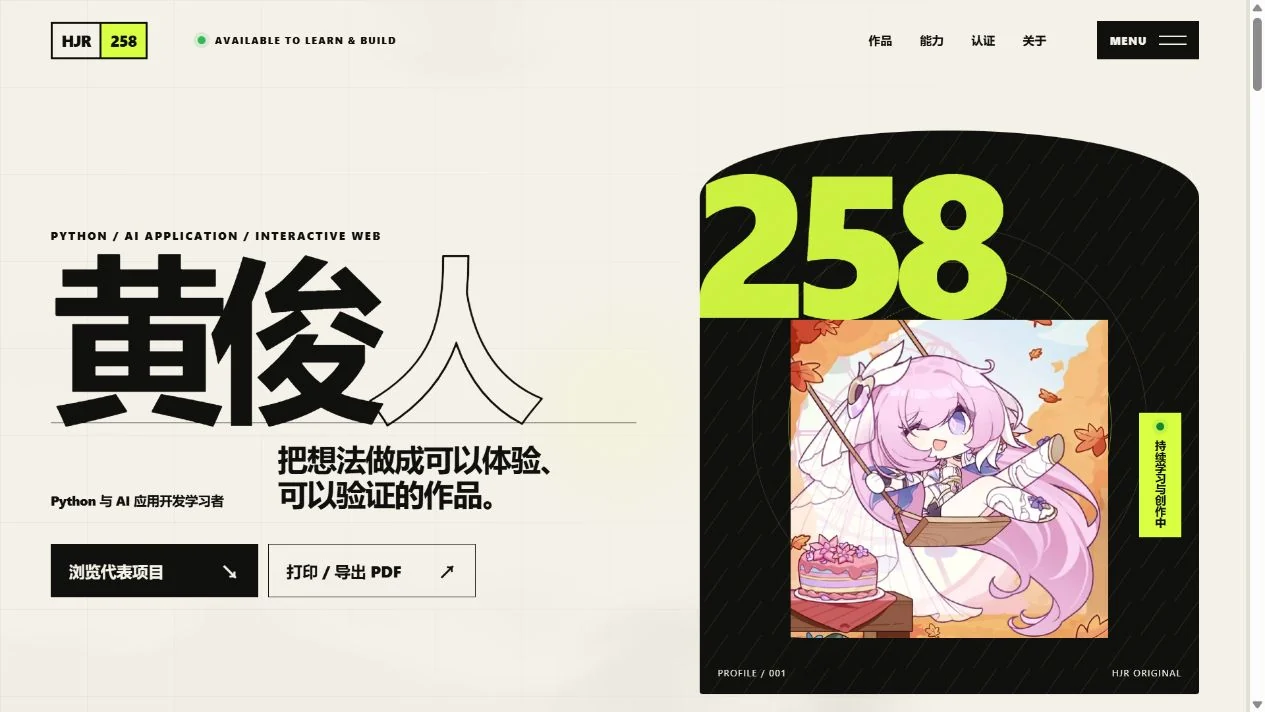
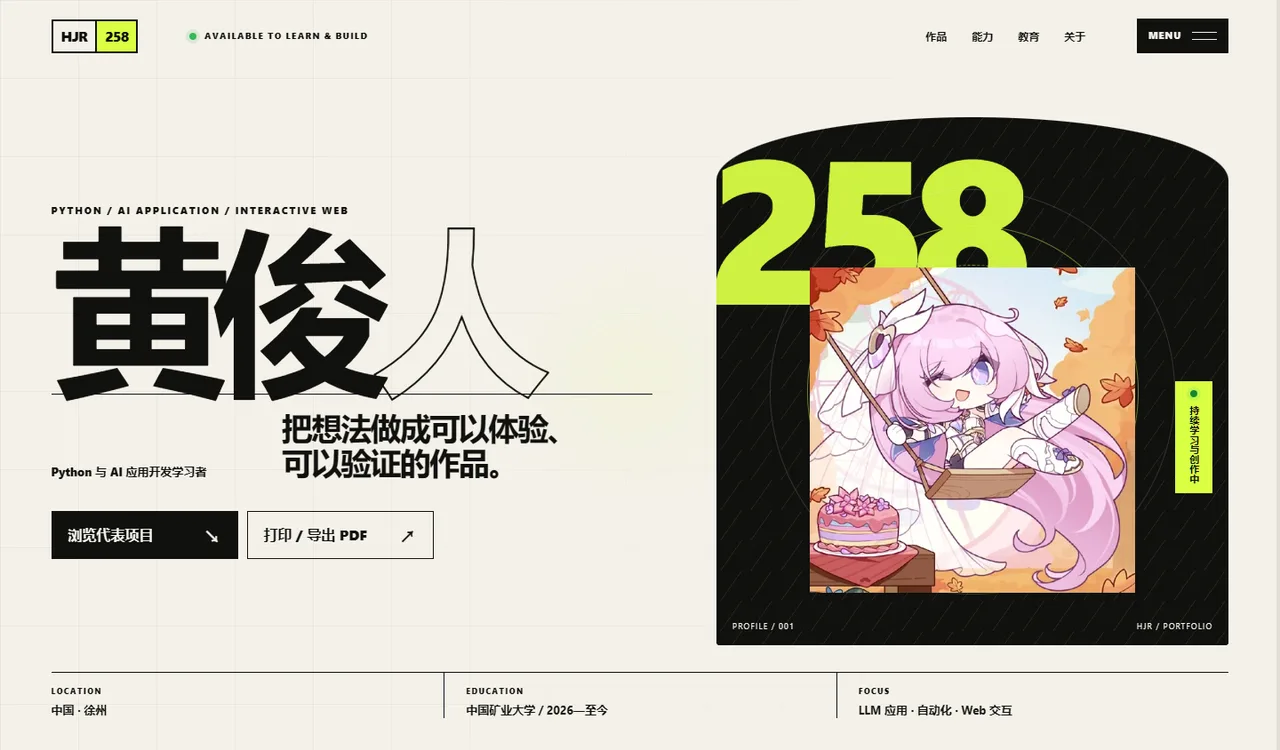
Remove certifications section and refine portfolio details

diff --git a/index.html b/index.html
@@ -7,11 +7,11 @@
   <meta name="theme-color" content="#d9ff43">
   <meta property="og:type" content="profile">
   <meta property="og:title" content="黄俊人｜个人作品集">
-  <meta property="og:description" content="黄俊人的项目、能力、教育背景与专业认证。">
-  <meta property="og:image" content="screenshots/tank-battle.webp">
+  <meta property="og:description" content="黄俊人的代表项目、技术能力与学习经历。">
+  <meta property="og:image" content="https://hjr258.github.io/aipersonalcv/screenshots/tank-battle.webp">
   <title>黄俊人｜个人作品集</title>
   <link rel="icon" href="favicon.svg" type="image/svg+xml">
-  <link rel="stylesheet" href="styles.css?v=20260910">
+  <link rel="stylesheet" href="styles.css?v=20261023">
   <noscript><style>.boot{display:none!important}</style></noscript>
   <script type="application/ld+json">
   {"@context":"https://schema.org","@type":"Person","name":"黄俊人","email":"mailto:3432300453@qq.com","sameAs":["https://github.com/HJR258"],"alumniOf":{"@type":"CollegeOrUniversity","name":"中国矿业大学"},"knowsAbout":["Python","LLM 应用","自动化工具","HTML5 Canvas","Web 开发"]}
@@ -29,7 +29,7 @@
   <div class="cursor" aria-hidden="true"><span></span></div>
   <div class="scroll-progress" aria-hidden="true"><b id="scrollProgress"></b></div>
   <canvas class="fluid-canvas" id="fluidCanvas" aria-hidden="true"></canvas>
-  <div class="image-trail" id="imageTrail" aria-hidden="true" data-trail-images="screenshots/tank-battle.webp|screenshots/resume-site.webp?v=20260831|screenshots/ai-chat.webp|assets/avatar.webp|assets/cert-damo.webp|assets/cert-ai-trainer-advanced.webp|assets/cert-alicloud-clouder.webp"></div>
+  <div class="image-trail" id="imageTrail" aria-hidden="true" data-trail-images="screenshots/tank-battle.webp|screenshots/resume-site.webp?v=20261023|screenshots/ai-chat.webp|assets/avatar.webp"></div>
 
   <header class="site-header" id="siteHeader">
     <a class="brand" href="#top" aria-label="返回首页" data-cursor="link">
@@ -37,7 +37,7 @@
     </a>
     <div class="header-status"><i></i><span>AVAILABLE TO LEARN &amp; BUILD</span></div>
     <nav class="desktop-nav" aria-label="主要导航">
-      <a href="#work">作品</a><a href="#skills">能力</a><a href="#awards">认证</a><a href="#about">关于</a>
+      <a href="#work">作品</a><a href="#skills">能力</a><a href="#education">教育</a><a href="#about">关于</a>
     </nav>
     <button class="menu-button" id="menuButton" type="button" aria-expanded="false" aria-controls="menuPanel" data-cursor="open">
       <span>MENU</span><i></i><i></i><b class="sr-only">打开菜单</b>
@@ -51,8 +51,7 @@
       <a href="#work"><small>01</small>代表项目</a>
       <a href="#skills"><small>02</small>技术能力</a>
       <a href="#education"><small>03</small>教育背景</a>
-      <a href="#awards"><small>04</small>学习与认证</a>
-      <a href="#about"><small>05</small>关于我</a>
+      <a href="#about"><small>04</small>关于我</a>
     </nav>
     <div class="menu-panel__footer"><a href="mailto:3432300453@qq.com">EMAIL ↗</a><a href="https://github.com/HJR258" target="_blank" rel="noopener noreferrer">GITHUB ↗</a><button class="fluid-toggle" id="fluidFxToggle" type="button" aria-pressed="true">FLUID FX / AUTO</button></div>
   </div>
@@ -79,10 +78,10 @@
         <div class="hero-visual__number" aria-hidden="true">258</div>
         <div class="hero-visual__halo" aria-hidden="true"><i></i><i></i><i></i></div>
         <div class="portrait-frame">
-          <img src="assets/avatar.webp" alt="黄俊人个人头像" width="480" height="480" fetchpriority="high" decoding="async">
+          <img src="assets/avatar.webp" alt="个人网站使用的插画头像" width="480" height="480" fetchpriority="high" decoding="async">
         </div>
         <div class="portrait-tag"><i></i><span>持续学习与创作中</span></div>
-        <div class="visual-caption"><span>PROFILE / 001</span><span>HJR ORIGINAL</span></div>
+        <div class="visual-caption"><span>PROFILE / 001</span><span>HJR / PORTFOLIO</span></div>
       </div>
 
       <div class="hero-meta reveal delay-3">
@@ -105,7 +104,7 @@
       </div>
       <div class="manifesto-stats">
         <div><strong>03</strong><span>代表项目</span></div>
-        <div><strong>03</strong><span>专业认证</span></div>
+        <div><strong>04</strong><span>能力方向</span></div>
         <div><strong>2026</strong><span>学习新起点</span></div>
       </div>
     </section>
@@ -124,7 +123,7 @@
           </button>
         </article>
         <article class="media-index-row reveal-card" data-project="resume-site">
-          <button class="media-index-trigger project-index-trigger" type="button" data-preview-src="screenshots/resume-site.webp?v=20260831" data-preview-title="个人简历网站" data-preview-meta="RESPONSIVE WEB · 个人项目｜AI辅助开发" aria-label="查看个人简历网站项目图片与详情" data-cursor="view">
+          <button class="media-index-trigger project-index-trigger" type="button" data-preview-src="screenshots/resume-site.webp?v=20261023" data-preview-title="个人简历网站" data-preview-meta="RESPONSIVE WEB · 个人项目｜AI辅助开发" aria-label="查看个人简历网站项目图片与详情" data-cursor="view">
             <span class="media-index-number">02</span><span class="media-index-name"><small>RESPONSIVE WEB</small><strong>个人简历网站</strong></span><span class="media-index-meta">离线浏览 · 无障碍交互 · 响应式设计 · A4 打印</span><span class="media-index-arrow" aria-hidden="true">↗</span>
           </button>
         </article>
@@ -160,33 +159,8 @@
       </article>
     </section>
 
-    <section class="awards" id="awards" aria-labelledby="awardsTitle" data-fluid-theme="light">
-      <header class="section-head">
-        <div class="section-index"><span>RECOGNITION</span><b>04</b></div>
-        <div><p>持续实践的见证</p><h2 id="awardsTitle">学习与认证</h2></div>
-        <p class="section-intro">悬停名称预览证书，点击后查看保持原始比例的完整大图。</p>
-      </header>
-      <div class="media-index-list certificate-index-list" aria-label="学习与认证索引">
-        <article class="media-index-row reveal-card">
-          <button class="media-index-trigger certificate-index-trigger" type="button" data-certificate="assets/cert-damo.webp" data-title="人工智能训练师证书（初级）" data-preview-src="assets/cert-damo.webp" data-preview-title="人工智能训练师证书（初级）" data-preview-meta="达摩院-机器智能技术事业部 · 初级" aria-label="预览并放大查看人工智能训练师证书（初级）" data-cursor="open">
-            <span class="media-index-number">01</span><span class="media-index-name"><small>初级培训认证</small><strong>人工智能训练师证书（初级）</strong></span><span class="media-index-meta">达摩院-机器智能技术事业部</span><span class="media-index-arrow" aria-hidden="true">＋</span>
-          </button>
-        </article>
-        <article class="media-index-row reveal-card">
-          <button class="media-index-trigger certificate-index-trigger" type="button" data-certificate="assets/cert-ai-trainer-advanced.webp" data-title="人工智能训练师证书（高级）" data-preview-src="assets/cert-ai-trainer-advanced.webp" data-preview-title="人工智能训练师证书（高级）" data-preview-meta="达摩院-机器智能技术事业部 · 高级" aria-label="预览并放大查看人工智能训练师证书（高级）" data-cursor="open">
-            <span class="media-index-number">02</span><span class="media-index-name"><small>高级培训认证</small><strong>人工智能训练师证书（高级）</strong></span><span class="media-index-meta">达摩院-机器智能技术事业部</span><span class="media-index-arrow" aria-hidden="true">＋</span>
-          </button>
-        </article>
-        <article class="media-index-row reveal-card">
-          <button class="media-index-trigger certificate-index-trigger" type="button" data-certificate="assets/cert-alicloud-clouder.webp" data-title="阿里云Apsara Clouder专项技能认证" data-preview-src="assets/cert-alicloud-clouder.webp" data-preview-title="阿里云Apsara Clouder专项技能认证" data-preview-meta="阿里云 · 大模型clouder认证：基于百炼平台构建智能体应用" aria-label="预览并放大查看阿里云Apsara Clouder专项技能认证" data-cursor="open">
-            <span class="media-index-number">03</span><span class="media-index-name"><small>专项技能认证</small><strong>阿里云Apsara Clouder专项技能认证</strong></span><span class="media-index-meta">阿里云｜大模型clouder认证：基于百炼平台构建智能体应用</span><span class="media-index-arrow" aria-hidden="true">＋</span>
-          </button>
-        </article>
-      </div>
-    </section>
-
     <section class="about section-dark" id="about" aria-labelledby="aboutTitle" data-fluid-theme="dark">
-      <div class="section-index"><span>ABOUT</span><b>05</b></div>
+      <div class="section-index"><span>ABOUT</span><b>04</b></div>
       <div class="about-lead"><p>保持好奇，也重视落地</p><h2 id="aboutTitle">学习不是等发车。<br><em>我已经在路上。</em></h2></div>
       <div class="about-body">
         <div class="about-copy"><p>我对 AI 应用开发和编程实践充满兴趣，持续学习 Python、LLM 应用与 Web 技术。我习惯从生活和学习中的具体问题出发，用小步迭代的方式完成可运行、可验证的作品。</p><p>我重视代码的可读性与可维护性，乐于研读官方文档和优秀开源项目，也希望在真实项目与团队协作中继续打磨工程能力。</p></div>
@@ -199,7 +173,7 @@
     <div class="footer-top"><span>READY FOR THE NEXT BUILD?</span><b>保持联系</b></div>
     <div class="footer-name">黄俊人<i>↗</i></div>
     <div class="footer-links"><a href="mailto:3432300453@qq.com">3432300453@qq.com</a><a href="https://github.com/HJR258" target="_blank" rel="noopener noreferrer">github.com/HJR258 ↗</a><button type="button" data-print>打印 / 导出 PDF</button></div>
-    <div class="footer-bottom"><span>PYTHON 与 AI 应用开发学习者</span><span>© 2026 黄俊人 · ORIGINAL PORTFOLIO</span><a href="#top">BACK TO TOP ↑</a></div>
+    <div class="footer-bottom"><span>PYTHON 与 AI 应用开发学习者</span><span>© 2026 黄俊人 · PERSONAL PORTFOLIO</span><a href="#top">BACK TO TOP ↑</a></div>
   </footer>
 
   <div class="hover-media-preview" id="hoverMediaPreview" aria-hidden="true">
@@ -215,16 +189,7 @@
     </section>
   </div>
 
-  <div class="modal-shell certificate-modal-shell" id="certificateModal" hidden>
-    <div class="modal-backdrop" data-close></div>
-    <section class="certificate-modal" role="dialog" aria-modal="true" aria-labelledby="certificateModalTitle">
-      <button class="modal-close" type="button" data-close aria-label="关闭证书">CLOSE ×</button>
-      <img id="certificateModalImage" alt="证书大图" width="1400" height="1000" loading="lazy" decoding="async">
-      <p id="certificateModalTitle">证书</p>
-    </section>
-  </div>
-
   <noscript><div class="noscript">JavaScript 已关闭：简历正文和图片仍可阅读，项目弹窗、菜单动画和打印按钮需要启用 JavaScript。</div></noscript>
-  <script src="main.js?v=20260910"></script>
+  <script src="main.js?v=20261023"></script>
 </body>
 </html>

diff --git a/styles.css b/styles.css
@@ -157,7 +157,7 @@ h1, h2, h3, p { margin-top: 0; }
 .manifesto-stats strong { color: var(--lime); font-size: clamp(44px, 6vw, 92px); line-height: 1; letter-spacing: -.08em; }
 .manifesto-stats span { font-size: 12px; font-weight: 800; }
 
-.work, .awards { padding: clamp(82px, 9vw, 145px) var(--pad); background: var(--paper); }
+.work { padding: clamp(82px, 9vw, 145px) var(--pad); background: var(--paper); }
 .section-head { display: grid; grid-template-columns: 130px minmax(300px, .8fr) minmax(280px, .6fr); gap: 4vw; align-items: start; margin-bottom: clamp(54px, 7vw, 100px); }
 .section-head h2 { margin: 8px 0 0; font-size: clamp(58px, 8vw, 132px); line-height: .78; letter-spacing: -.075em; }
 .section-intro { align-self: end; max-width: 420px; margin: 0; font-size: clamp(16px, 1.4vw, 21px); }
@@ -174,9 +174,6 @@ h1, h2, h3, p { margin-top: 0; }
 .media-index-meta { max-width: 330px; font-size: 12px; font-weight: 750; line-height: 1.65; }
 .media-index-arrow { justify-self: end; font-size: clamp(28px, 3.2vw, 48px); font-weight: 400; transition: transform .4s var(--ease); }
 .media-index-trigger:hover .media-index-arrow, .media-index-trigger:focus-visible .media-index-arrow { transform: rotate(45deg); }
-.certificate-index-list .media-index-trigger::before { background: var(--ink); }
-.certificate-index-list .media-index-trigger:hover, .certificate-index-list .media-index-trigger:focus-visible { color: var(--paper); }
-.certificate-index-list .media-index-trigger:hover .media-index-arrow, .certificate-index-list .media-index-trigger:focus-visible .media-index-arrow { color: var(--lime); }
 
 .hover-media-preview { --preview-x: -500px; --preview-y: -500px; position: fixed; z-index: 1000; left: 0; top: 0; width: min(380px, calc(100vw - 32px)); pointer-events: none; opacity: 0; transform: translate3d(var(--preview-x), var(--preview-y), 0); transition: opacity .16s ease; will-change: transform, opacity; }
 .hover-media-preview.visible { opacity: 1; }
@@ -239,17 +236,6 @@ h1, h2, h3, p { margin-top: 0; }
 .education-card p { margin: 0; font-weight: 750; }
 .education-code { position: absolute; right: 15px; top: 14px; font-size: 9px; font-weight: 900; letter-spacing: .12em; }
 
-.certificate-grid { display: grid; gap: 18px; }
-.certificate-card { display: grid; grid-template-columns: minmax(270px, .65fr) minmax(0, 1.35fr); min-height: 410px; border: 1px solid var(--ink); }
-.certificate-copy { display: flex; flex-direction: column; padding: clamp(26px, 3vw, 48px); color: var(--paper); background: var(--ink); }
-.certificate-copy > span { font-size: 9px; font-weight: 900; letter-spacing: .15em; }
-.certificate-copy h3 { margin: auto 0 22px; font-size: clamp(30px, 3.4vw, 56px); line-height: .96; letter-spacing: -.055em; }
-.certificate-copy p { margin: 0; color: #c5c8c0; font-size: 13px; }
-.certificate-button { position: relative; display: grid; place-items: center; min-width: 0; padding: clamp(22px, 3vw, 46px); overflow: hidden; background: #e2e2db; border: 0; cursor: pointer; }
-.certificate-button img { width: 100%; height: auto; max-height: 440px; object-fit: contain; object-position: center; filter: drop-shadow(0 16px 24px rgba(0,0,0,.16)); transition: transform .55s var(--ease); }
-.certificate-button:hover img { transform: scale(1.018); }
-.certificate-button span { position: absolute; right: 14px; bottom: 12px; padding: 7px 9px; color: var(--ink); background: var(--lime); border: 1px solid var(--ink); font-size: 9px; font-weight: 950; letter-spacing: .1em; }
-
 .about { display: grid; grid-template-columns: 130px 1fr; gap: 4vw; padding: clamp(82px, 9vw, 145px) var(--pad); }
 .about-lead h2 { margin: 20px 0 0; font-size: clamp(48px, 7.2vw, 118px); line-height: .9; letter-spacing: -.075em; }
 .about-body { grid-column: 2; display: grid; grid-template-columns: 1.15fr .85fr; gap: 8vw; margin-top: 90px; }
@@ -295,17 +281,12 @@ h1, h2, h3, p { margin-top: 0; }
 .modal-tech span { padding: 8px 10px; color: var(--paper); background: var(--ink); font-size: 10px; font-weight: 850; }
 .modal-actions { display: flex; gap: 10px; margin-top: 28px; }
 .modal-actions a { padding: 13px 18px; color: var(--ink); background: var(--lime); border: 2px solid var(--ink); font-weight: 900; }
-.certificate-modal-shell { display: grid; place-items: center; padding: 24px; }
-.certificate-modal-shell[hidden] { display: none; }
-.certificate-modal { position: relative; display: grid; width: min(1500px, 96vw); max-height: 94vh; place-items: center; padding: 56px 20px 18px; color: var(--paper); background: var(--ink); overflow: auto; }
-.certificate-modal .modal-close { position: absolute; right: 12px; left: auto; top: 0; margin: 12px 0 0; }
-.certificate-modal img { width: 100%; height: auto; max-width: 1400px; max-height: calc(94vh - 105px); object-fit: contain; object-position: center; }
-.certificate-modal p { margin: 12px 0 0; font-size: 12px; font-weight: 850; }
 .noscript { position: fixed; z-index: 9999; left: 16px; right: 16px; bottom: 16px; padding: 14px; color: var(--ink); background: var(--lime); border: 2px solid var(--ink); }
 
 @media (max-width: 1100px) {
   .desktop-nav, .header-status { display: none; }
   .site-header { grid-template-columns: 1fr auto; }
+  .brand { justify-self: start; }
   .hero { grid-template-columns: 1fr .85fr; }
   .hero-name { font-size: clamp(90px, 15vw, 160px); }
   .hero-statement { grid-template-columns: 1fr; gap: 14px; }
@@ -386,11 +367,6 @@ h1, h2, h3, p { margin-top: 0; }
   .education-card { grid-column: 1 / -1; grid-template-columns: 86px 1fr; gap: 18px; min-height: 210px; margin-left: 10px; padding: 24px 18px; box-shadow: 8px 8px 0 var(--ink); }
   .education-card img { width: 80px; }
   .education-card h3 { font-size: 30px; }
-  .certificate-card { grid-template-columns: 1fr; }
-  .certificate-copy { min-height: 235px; }
-  .certificate-copy h3 { margin-top: auto; font-size: 36px; }
-  .certificate-button { min-height: 250px; padding: 18px; }
-  .certificate-button img { max-height: 310px; }
   .about-body { grid-column: 1 / -1; grid-template-columns: 1fr; gap: 45px; margin-top: 58px; }
   .about-copy { font-size: 17px; }
   .footer { padding-top: 54px; }
@@ -403,15 +379,12 @@ h1, h2, h3, p { margin-top: 0; }
   .modal-media img { max-height: 54vh; }
   .modal-content dl, .modal-content > ul { grid-template-columns: 1fr; }
   .modal-content h2 { font-size: 47px; }
-  .certificate-modal-shell { padding: 7px; }
-  .certificate-modal { width: 100%; max-height: 98vh; }
-  .certificate-modal img { max-height: calc(98vh - 105px); }
 }
 
 @media (hover: none), (pointer: coarse) {
   .cursor { display: none; }
   .hover-media-preview, .image-trail { display: none; }
-  .project:hover .project-media img, .certificate-button:hover img { transform: none; }
+  .media-index-trigger:hover .media-index-name strong { transform: none; }
 }
 
 @media (prefers-reduced-motion: reduce) {
@@ -424,25 +397,22 @@ h1, h2, h3, p { margin-top: 0; }
   :root { --paper: #fff; --ink: #000; }
   @page { size: A4; margin: 13mm; }
   body { color: #000; background: #fff; font-size: 10pt; }
-  .boot, .cursor, .scroll-progress, .site-header, .ticker, .hero-grid, .hero-actions, .project-hit, .project-links, .certificate-button span, .footer-links, .modal-shell, .hover-media-preview, .image-trail, .fluid-canvas { display: none !important; }
-  .hero, .manifesto, .work, .skills, .education, .awards, .about, .footer { display: block; min-height: auto; padding: 12mm 0; color: #000; background: #fff; break-inside: auto; }
+  .boot, .cursor, .scroll-progress, .site-header, .ticker, .hero-grid, .hero-actions, .modal-shell, .hover-media-preview, .image-trail, .fluid-canvas, [data-print] { display: none !important; }
+  .hero, .manifesto, .work, .skills, .education, .about, .footer { display: block; min-height: auto; padding: 12mm 0; color: #000; background: #fff; break-inside: auto; }
   .hero-name { font-size: 74pt; }
   .hero-visual { width: 68mm; min-height: 68mm; margin: 8mm 0; color: #000; background: #eee; border-radius: 0; }
   .portrait-tag { color: #000; background: #fff; border: 1px solid #000; }
-  .hero-meta, .manifesto-stats, .section-head, .project--featured, .project-grid, .skill-rack, .education-card, .certificate-card, .about-body { display: block; }
+  .hero-meta, .manifesto-stats, .section-head, .skill-rack, .education-card, .about-body { display: block; }
   .manifesto h2, .section-head h2, .education-title h2, .about h2 { font-size: 34pt; }
+  .section-head--dark, .manifesto-stats strong { color: #000; }
   .manifesto h2 em, .about h2 em { color: #000; }
-  .manifesto-stats div, .skill, .project, .education-card, .certificate-card { min-height: auto; margin: 6mm 0; padding: 6mm; color: #000; background: #fff; border: 1px solid #000; break-inside: avoid; box-shadow: none; }
-  .project-media, .certificate-button { background: #eee; }
-  .project-info { min-height: auto !important; padding: 6mm 0 0; }
-  .project-info h3 { margin: 8mm 0 3mm; font-size: 24pt; }
-  .project-info > p, .skill p, .certificate-copy p { color: #000; }
-  .certificate-copy { min-height: auto; padding: 0 0 5mm; color: #000; background: #fff; }
-  .certificate-button { display: block; padding: 0; }
-  .certificate-button img { max-height: 70mm; margin: auto; }
+  .manifesto-stats div, .skill, .education-card { min-height: auto; margin: 6mm 0; padding: 6mm; color: #000; background: #fff; border: 1px solid #000; break-inside: avoid; box-shadow: none; }
+  .skill p { color: #000; }
   .media-index-trigger { display: grid; grid-template-columns: 16mm 1fr 55mm 10mm; padding: 5mm 0; color: #000; }
   .media-index-trigger::before { display: none; }
   .media-index-name strong { font-size: 19pt; }
   .footer-name { font-size: 56pt; }
+  .footer-links { display: flex; flex-wrap: wrap; gap: 3mm 8mm; }
+  .footer-links a { padding: 0; color: #000; background: #fff; border: 0; }
   a[href^="http"]::after, a[href^="mailto"]::after { content: " (" attr(href) ")"; font-size: 8pt; }
 }

diff --git a/main.js b/main.js
@@ -22,9 +22,9 @@
       role: '本人负责信息整理、栏目规划、视觉方向、交互需求、素材选择和测试验收；使用 AI 辅助完成响应式布局、项目数据结构、无障碍交互与性能优化。',
       highlights: ['项目卡片与弹窗共享集中数据，避免内容漂移', '支持键盘操作、焦点管理和减少动画偏好', '使用 WebP、图片尺寸声明和懒加载优化体验', '提供 A4 打印样式，可直接导出 PDF 简历'],
       tech: ['HTML5', 'CSS3', 'JavaScript', 'Responsive Design', 'Accessibility', 'Print CSS'],
-      image: 'screenshots/resume-site.webp?v=20260831',
+      image: 'screenshots/resume-site.webp?v=20261023',
       imageAlt: '黄俊人个人简历网站截图',
-      actions: [{ label: 'GitHub', href: 'https://github.com/HJR258', external: true }]
+      actions: [{ label: '查看源码', href: 'https://github.com/HJR258/aipersonalcv', external: true }]
     },
     'ai-chat': {
       name: 'AI 聊天助手',
@@ -542,18 +542,6 @@
   document.querySelectorAll('.project-index-trigger').forEach((button) => {
     const row = button.closest('[data-project]');
     button.addEventListener('click', () => showProject(row?.dataset.project, button));
-  });
-
-  const certificateModal = document.getElementById('certificateModal');
-  const certificateImage = document.getElementById('certificateModalImage');
-  const certificateTitle = document.getElementById('certificateModalTitle');
-  document.querySelectorAll('.certificate-index-trigger').forEach((button) => {
-    button.addEventListener('click', () => {
-      certificateImage.src = button.dataset.certificate;
-      certificateImage.alt = button.dataset.title;
-      certificateTitle.textContent = button.dataset.title;
-      openModal(certificateModal, button);
-    });
   });
 
   document.querySelectorAll('[data-close]').forEach((element) => element.addEventListener('click', () => closeModal(element.closest('.modal-shell'))));

diff --git a/README.md b/README.md
@@ -5,9 +5,9 @@
 ## 使用方式
 
 - 双击 `index.html` 即可离线浏览。
-- “代表项目”和“学习与认证”使用大字号文字索引，不在栏目中直接堆放图片。
-- 桌面端将鼠标移到文字索引上可查看跟随式图片预览；点击后打开完整项目图或证书大图。
-- 手机和平板端无需悬停，直接点击文字索引即可打开图片；坦克大战可从项目详情进入游玩。
+- “代表项目”使用大字号文字索引，不在栏目中直接堆放图片。
+- 桌面端将鼠标移到项目名称上可查看跟随式图片预览；点击后打开完整项目详情。
+- 手机和平板端无需悬停，直接点击项目名称即可打开详情；坦克大战可从项目详情进入游玩。
 - 桌面端在首屏与代表项目区保留图片轨迹，用于补充作品视觉预览；轨迹节点采用对象池复用，并在减少动画模式下自动关闭。
 - 全站背景加入可交互的流体噪声层：鼠标与触控可牵引墨流，点击空白区域会产生局部墨花；深浅章节会自动切换配色和混合方式。
 - 菜单中的 `FLUID FX` 可随时关闭或重新开启流体效果，选择会保存在本机。
@@ -23,7 +23,7 @@
 
 ## 设计说明
 
-视觉语言参考高性能运动员个人网站常见的编辑式排版、荧光强调色、分屏叙事和参数化编号，但所有文字、图像与品牌标识均为黄俊人的原创内容及个人素材。
+视觉语言参考高性能运动员个人网站常见的编辑式排版、荧光强调色、分屏叙事和参数化编号。网站内容基于本人经历与项目，由本人规划并使用 AI 辅助开发；校徽等第三方标识归相应权利人所有。
 
 ## 文件
 
@@ -31,7 +31,7 @@
 - `styles.css`：桌面、移动端与打印样式
 - `main.js`：菜单、弹窗、光标、滚动和键盘交互
 - `fluid.js`：按需加载的 WebGL2 流体与 Canvas 轻量降级渲染器
-- `assets/`：头像、校徽与证书
+- `assets/`：头像与校徽
 - `screenshots/`：项目截图
 - `game/`：可离线运行的坦克大战项目
 - `react-hover-preview/`：React + TypeScript + Tailwind + shadcn 结构的悬停预览组件实验区
